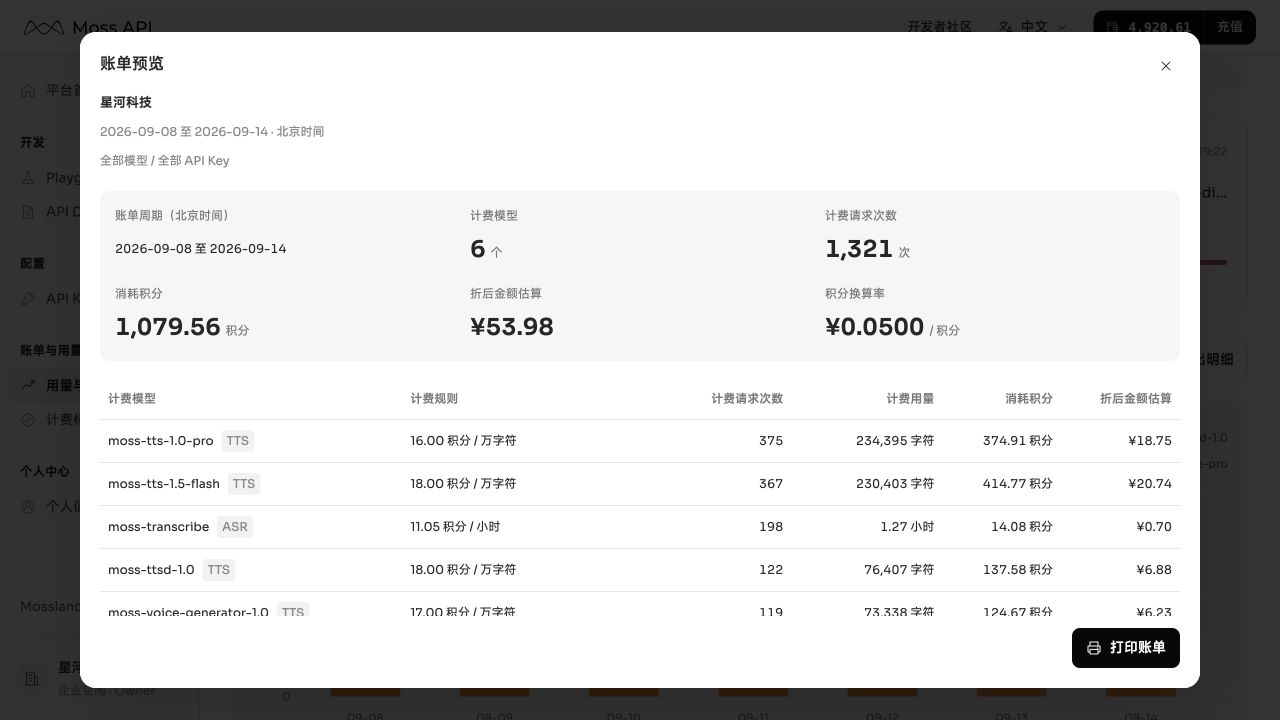
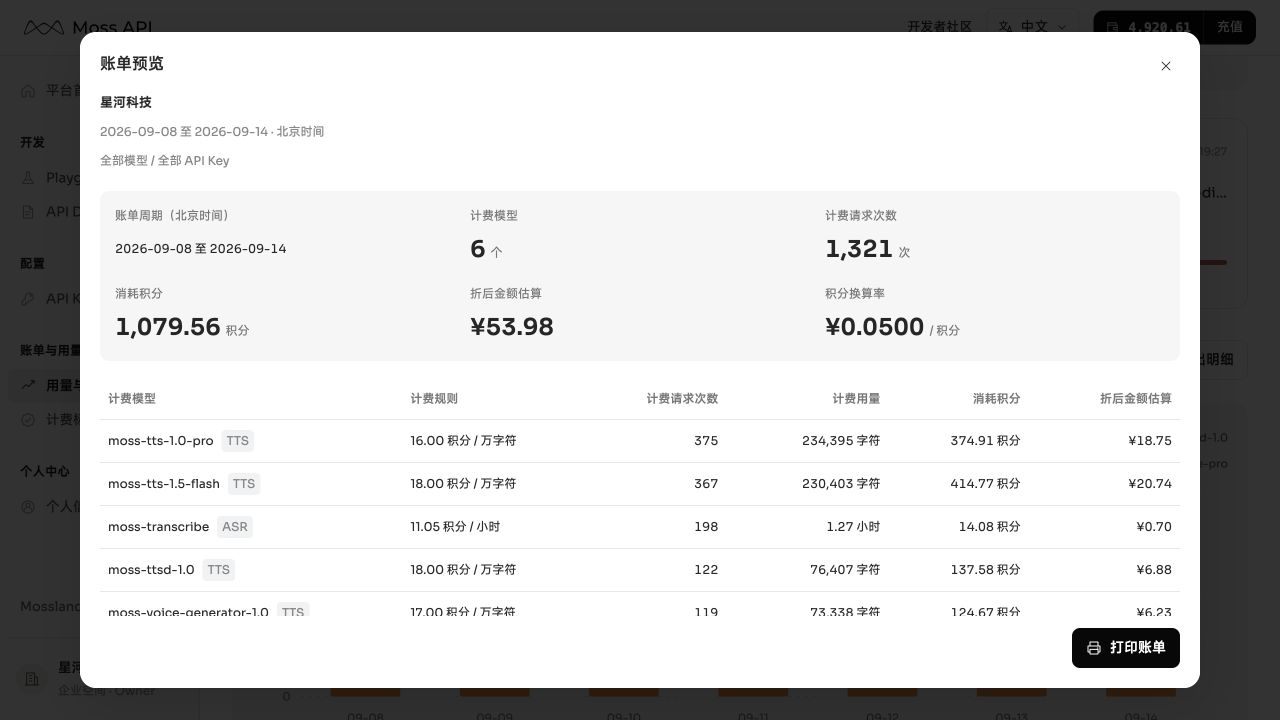
fix: unify pricing rules and simplify request billing details

Changed region(s): [[0.625, 0.5194, 0.8125, 0.7944], [0.625, 0.825, 0.8125, 0.8556], [0.5, 0.5194, 0.625, 0.5806]]

diff --git a/app/platform/usage.tsx b/app/platform/usage.tsx
@@ -2,7 +2,7 @@
 import { useEffect, useMemo, useState } from 'react';
 import { Context, DAY, Filters, KeyRecord, RequestRecord, aggregate, concurrencyPeak, contextModels, csv, dateKey, filterRequests, makeConcurrencySamples, models, points, rangeFor, timeLabel } from './data';
 import { Dialog, Empty, Help, Icon, Notice, Pagination, Select } from './ui';
-import { discountLabel, ratePoints, estimateYuan } from './pricing-data';
+import { ratePoints, estimateYuan } from './pricing-data';
 import { RekaTabs, RekaDateRangePicker } from './reka';
 import BillPreview from './bill-preview';
 import ExportHeading from './export-heading';
@@ -57,7 +57,7 @@ export default function Usage({ context, keys, requests, initialKey, balance, ge
     </section> : null}
     <RekaTabs value={tab} onValueChange={value => setTab(value as 'overview' | 'requests')} items={[{ value: 'overview', label: '用量概览' }, { value: 'requests', label: '请求明细' }]} toolbar={<div className="p-export-actions"><button className="p-button" disabled={!rows.length || invalidRange} onClick={() => setExporting('bill')}><Icon name="download" />导出账单</button><button className="p-button" disabled={!rows.length || invalidRange} onClick={() => setExporting('keys')}><Icon name="download" />导出明细</button></div>}>{tab === 'overview' ? <><section className="p-panel p-trend"><h2>积分使用趋势</h2><p className="p-muted">{rangeLabel}，按模型消耗汇总</p>{monthPending ? <Empty>本月暂无已同步数据</Empty> : <Trend key={`${dates.from}:${dates.to}:${model}:${keyId}`} rows={rows} from={dates.from} to={dates.to} settledBefore={settledBefore} />}</section><section className="p-model-usage"><h2>模型用量概览 <Help text="请求次数仅统计实际扣除积分的请求，消耗积分已包含模型折扣。" /></h2><div className="p-table-scroll"><table><thead><tr><th>模型</th><th className="p-number">计费请求次数（次）</th><th className="p-number">计费用量</th><th className="p-number">消耗积分</th><th className="p-number">折后金额估算</th><th className="p-number">操作</th></tr></thead><tbody>{summary.map(r => <tr key={r.model}><td><strong className="p-model-title">{r.model}</strong><small className="p-muted">{models.find(m => m.id === r.model)?.kind} · /api/v2/tasks</small></td><td className="p-number">{r.billedCount.toLocaleString()}</td><td className="p-number">{usageUnits(r.model, r.units)}</td><td className="p-number">{points(r.cents)} 积分</td><td className="p-number">{estimateAmount(r.cents)}</td><td className="p-number"><button className="p-text-button" onClick={() => { setModel(r.model); setTab('requests'); setPage(1); }}>查看明细</button></td></tr>)}</tbody>{summary.length ? <tfoot><tr><th>合计</th><td className="p-number">{summary.reduce((n, r) => n + r.billedCount, 0).toLocaleString()}</td><td className="p-number">{['TTS', 'ASR'].map(kind => { const group = summary.filter(r => models.find(m => m.id === r.model)?.kind === kind); return group.length ? <div key={kind}>{usageUnits(group[0].model, group.reduce((n, r) => n + r.units, 0))}</div> : null; })}</td><td className="p-number">{points(sum)} 积分</td><td className="p-number">{estimateAmount(sum)}</td><td /></tr></tfoot> : null}</table>{!rows.length ? <Empty>{monthPending ? '本月暂无已同步数据' : '所选范围内暂无已同步的用量数据。'}</Empty> : null}</div></section></> : <section className="p-request-table"><div className="p-table-scroll"><table><thead><tr><th>时间</th><th>请求 ID</th><th>API Key</th><th>接口</th><th>模型 ID</th><th>状态</th><th className="p-number">积分</th></tr></thead><tbody>{rows.slice((currentPage - 1) * pageSize, currentPage * pageSize).map(r => <tr key={r.id}><td className="p-nowrap">{timeLabel(r.start)}</td><td><button className="p-request-id" onClick={() => setRequest(r)}>{r.id}</button></td><td>{keys.find(k => k.id === r.keyId)?.name ?? r.keyId}</td><td><code>/api/v2/tasks</code></td><td className="p-nowrap"><code>{r.model}</code></td><td><span className={`p-request-status ${r.status === '成功' ? 'is-success' : 'is-failed'}`}>{r.status}</span></td><td className="p-number">{points(r.cents)}</td></tr>)}</tbody></table>{!rows.length ? <Empty>{monthPending ? '本月暂无已同步数据' : '所选范围内暂无请求明细。您可以调整筛选条件，或等待次日同步。'}</Empty> : null}</div><Pagination count={rows.length} page={currentPage} pageSize={pageSize} setPage={setPage} setPageSize={setPageSize} /></section>}</RekaTabs>
     {exporting === 'bill' ? <BillPreview rows={rows} filters={filters} context={context} keys={keys} close={() => setExporting(null)} /> : exporting ? <ExportDialog kind={exporting} setKind={setExporting} rows={rows} filters={filters} context={context} keys={keys} close={() => setExporting(null)} /> : null}
-    {request ? <Dialog title="请求详情" close={() => setRequest(null)}><div className="p-dialog-body"><dl className="p-request-detail">{[['请求 ID', request.id], ['时间', timeLabel(request.start)], ['API Key', keys.find(k => k.id === request.keyId)?.name ?? request.keyId], ['Key 标识', request.keyId], ['模型', request.model], ['接口', '/api/v2/tasks'], ['状态', request.status], ['计费用量', `${request.units} ${models.find(m => m.id === request.model)?.unit}`], ['消耗积分', points(request.cents)], ...(request.rate ? [['结算单价', `${ratePoints(request.rate)} 积分 / ${request.rate.basisLabel}`], ['模型折扣', discountLabel(request.rate.discountBps)]] : [])].map(([label, value]) => <div key={label}><dt>{label}</dt><dd>{value}</dd></div>)}</dl></div><footer><button className="p-button p-primary" onClick={() => setRequest(null)}>关闭</button></footer></Dialog> : null}
+    {request ? <Dialog title="请求详情" close={() => setRequest(null)}><div className="p-dialog-body"><dl className="p-request-detail">{[['请求 ID', request.id], ['时间', timeLabel(request.start)], ['API Key', keys.find(k => k.id === request.keyId)?.name ?? request.keyId], ['Key 标识', request.keyId], ['模型', request.model], ['接口', '/api/v2/tasks'], ['状态', request.status], ['计费用量', `${request.units} ${models.find(m => m.id === request.model)?.unit}`], ['消耗积分', points(request.cents)], ...(request.rate ? [['结算单价', `${ratePoints(request.rate)} 积分 / ${request.rate.basisLabel}`]] : [])].map(([label, value]) => <div key={label}><dt>{label}</dt><dd>{value}</dd></div>)}</dl></div><footer><button className="p-button p-primary" onClick={() => setRequest(null)}>关闭</button></footer></Dialog> : null}
   </main>;
 }
 function Trend({ rows, from, to, settledBefore }: { rows: RequestRecord[]; from: string; to: string; settledBefore: number }) {

diff --git a/app/platform/pricing.tsx b/app/platform/pricing.tsx
@@ -1,10 +1,10 @@
 'use client';
 import { Context, contextModels, points } from './data';
-import { discountLabel, rateFor, ratePoints } from './pricing-data';
+import { rateFor, ratePoints } from './pricing-data';
 import { packages } from './credits';
 import Image from 'next/image';
 export default function Pricing({ context, getCredits, contact }: { contact: () => void; context: Context; getCredits: (credits: number) => void }) {
   const available = contextModels(context);
   const groups = [{ title: '语音生成', ids: available.filter(m => m.kind === 'TTS').map(m => m.id) }, { title: '语音转写', ids: available.filter(m => m.kind === 'ASR').map(m => m.id) }];
-  return <main id="main-content" className="p-main p-pricing"><header className="p-pricing-heading"><div><h1>积分包</h1><p>选择适合的积分包，积分可用于所有 API 调用。</p></div><span>积分自购买日起一年内有效</span></header><section className="p-pricing-packs" aria-label="积分包列表">{packages.map(pack => <article key={pack.credits}>{pack.discount ? <span className="p-pack-corner">{pack.discount}</span> : null}<h2 className="p-pack-credits"><Image src="/platform/point.svg" width={20} height={20} alt="" />{pack.credits} 积分</h2><div className="p-pack-price-box"><div className="p-pack-price-line"><strong>¥ {pack.price}</strong>{pack.list ? <del>¥ {pack.list}</del> : null}</div></div><button className="p-button p-primary p-pack-buy" onClick={() => getCredits(pack.credits)}>购买</button></article>)}</section><section className="p-pricing-business"><div><h3>商务定制</h3><p>针对企业方案定制配额用量、提供专属服务、SLA 与技术支持</p></div><button className="p-text-button" onClick={contact}>联系我们</button></section><section className="p-pricing-rates"><header><h2>模型计费标准</h2><span>{context === 'enterprise' ? '星河科技 · 企业专属折扣，仅在消耗积分时生效' : '个人空间 · 平台标准价'}</span></header>{groups.map(group => <section className="p-rate-group" key={group.title}><header><h3>{group.title}</h3></header><div className="p-table-scroll"><table className={context === 'enterprise' ? 'p-rate-enterprise' : 'p-rate-personal'}><colgroup>{(context === 'enterprise' ? [27, 16, 17, 10, 17, 13] : [32, 23, 25, 20]).map((width, index) => <col key={index} style={{ width: `${width}%` }} />)}</colgroup><thead><tr><th>模型</th><th>计费方式</th><th className="p-number">标准价</th>{context === 'enterprise' ? <><th className="p-number">企业折扣</th><th className="p-number">企业价</th></> : null}<th className="p-number">最低扣费</th></tr></thead><tbody>{available.filter(m => group.ids.includes(m.id)).map(m => { const rate = rateFor(context, m.id); return <tr key={m.id}><td>{m.id}</td><td>{m.kind === 'TTS' ? '按输入字符' : '按输入音视频时长'}</td><td className="p-number">{points(rate.standardCents)} 积分 / {rate.basisLabel}</td>{context === 'enterprise' ? <><td className="p-number"><span className="p-discount">{discountLabel(rate.discountBps)}</span></td><td className="p-number"><strong>{ratePoints(rate).toFixed(2)}</strong> 积分 / {rate.basisLabel}</td></> : null}<td className="p-number">{points(rate.minimumCents)} 积分 / 次</td></tr>; })}</tbody></table></div></section>)}</section><section className="p-pricing-rules"><h2>购买与结算规则</h2><ul>{context === 'enterprise' ? <li>企业调用按对应模型的企业价格扣除积分。</li> : null}<li>按请求实际用量计算积分，折后消耗低于最低扣费时，按最低积分扣除。</li><li>账单保留调用时的计费标准，后续调整不影响历史记录。</li></ul></section></main>;
+  return <main id="main-content" className="p-main p-pricing"><header className="p-pricing-heading"><div><h1>积分包</h1><p>选择适合的积分包，积分可用于所有 API 调用。</p></div><span>积分自购买日起一年内有效</span></header><section className="p-pricing-packs" aria-label="积分包列表">{packages.map(pack => <article key={pack.credits}>{pack.discount ? <span className="p-pack-corner">{pack.discount}</span> : null}<h2 className="p-pack-credits"><Image src="/platform/point.svg" width={20} height={20} alt="" />{pack.credits} 积分</h2><div className="p-pack-price-box"><div className="p-pack-price-line"><strong>¥ {pack.price}</strong>{pack.list ? <del>¥ {pack.list}</del> : null}</div></div><button className="p-button p-primary p-pack-buy" onClick={() => getCredits(pack.credits)}>购买</button></article>)}</section><section className="p-pricing-business"><div><h3>商务定制</h3><p>针对企业方案定制配额用量、提供专属服务、SLA 与技术支持</p></div><button className="p-text-button" onClick={contact}>联系我们</button></section><section className="p-pricing-rates"><header><h2>模型计费标准</h2><span>{context === 'enterprise' ? '星河科技 · 企业专属折扣，仅在消耗积分时生效' : '个人空间 · 平台标准价'}</span></header>{groups.map(group => <section className="p-rate-group" key={group.title}><header><h3>{group.title}</h3></header><div className="p-table-scroll"><table className={context === 'enterprise' ? 'p-rate-enterprise' : 'p-rate-personal'}><colgroup>{[32, 23, 25, 20].map((width, index) => <col key={index} style={{ width: `${width}%` }} />)}</colgroup><thead><tr><th>模型</th><th>计费方式</th><th className="p-number">计费规则</th><th className="p-number">最低扣费</th></tr></thead><tbody>{available.filter(m => group.ids.includes(m.id)).map(m => { const rate = rateFor(context, m.id); return <tr key={m.id}><td>{m.id}</td><td>{m.kind === 'TTS' ? '按输入字符' : '按输入音视频时长'}</td><td className="p-number">{ratePoints(rate).toFixed(2)} 积分 / {rate.basisLabel}</td><td className="p-number">{points(rate.minimumCents)} 积分 / 次</td></tr>; })}</tbody></table></div></section>)}</section><section className="p-pricing-rules"><h2>购买与结算规则</h2><ul>{context === 'enterprise' ? <li>企业调用按对应模型的企业价格扣除积分。</li> : null}<li>按请求实际用量计算积分，折后消耗低于最低扣费时，按最低积分扣除。</li><li>账单保留调用时的计费标准，后续调整不影响历史记录。</li></ul></section></main>;
 }

diff --git a/app/platform/profile.tsx b/app/platform/profile.tsx
@@ -1,6 +1,6 @@
 'use client';
 import { Icon } from './ui';
 export default function Profile({ notify }: { notify: (message: string) => void }) {
-  const copy = async () => { try { await navigator.clipboard.writeText('moss-user-linxiao'); notify('已复制'); } catch { notify('复制失败，请手动复制。'); } };
-  return <main id="main-content" className="p-main p-profile"><div className="p-profile-content"><h1>个人信息</h1><section className="p-profile-section"><h2>基本信息</h2><div className="p-profile-basic"><div><span>头像</span><span className="p-avatar p-profile-avatar">林</span></div><div><span>昵称</span><span>林晓</span></div><div><span>用户 ID</span><span>moss-user-linxiao <button className="p-icon-button" aria-label="复制用户 ID" onClick={copy}><Icon name="copy" /></button></span></div><div><span>手机号</span><span>—</span></div><div><span>邮箱</span><span>—</span></div></div></section><section className="p-profile-section p-profile-certification"><header><h2>企业认证</h2><span className="p-muted">未认证</span></header><div className="p-profile-cert-card"><span className="p-avatar p-avatar-enterprise"><Icon name="person" size={24} /></span><div><strong>完成企业认证，开通企业采购能力</strong><span>认证后可选择企业对公转账方式购买积分。</span></div><a className="p-button p-primary" href="https://platform.mosi.cn/app/profile" target="_blank" rel="noreferrer">去认证</a></div></section></div></main>;
+  const copy = async () => { try { await navigator.clipboard.writeText('2090649342695182666'); notify('已复制'); } catch { notify('复制失败，请手动复制。'); } };
+  return <main id="main-content" className="p-main p-profile"><div className="p-profile-content"><h1>个人信息</h1><section className="p-profile-section"><h2>基本信息</h2><div className="p-profile-basic"><div><span>头像</span><span className="p-avatar p-profile-avatar">林</span></div><div><span>昵称</span><span>林晓</span></div><div><span>用户 ID</span><span>2090649342695182666 <button className="p-icon-button" aria-label="复制用户 ID" onClick={copy}><Icon name="copy" /></button></span></div><div><span>手机号</span><span>—</span></div><div><span>邮箱</span><span>—</span></div></div></section><section className="p-profile-section p-profile-certification"><header><h2>企业认证</h2><span className="p-muted">未认证</span></header><div className="p-profile-cert-card"><span className="p-avatar p-avatar-enterprise"><Icon name="person" size={24} /></span><div><strong>完成企业认证，开通企业采购能力</strong><span>认证后可选择企业对公转账方式购买积分。</span></div><a className="p-button p-primary" href="https://platform.mosi.cn/app/profile" target="_blank" rel="noreferrer">去认证</a></div></section></div></main>;
 }

diff --git a/app/platform/platform.css b/app/platform/platform.css
@@ -322,7 +322,7 @@
 .p-bill-table thead{background:#fff}
 .p-bill-table th{font-weight:500;color:#777;white-space:nowrap}
 .p-bill-table td.p-number{white-space:nowrap}
-.p-bill-table thead th:nth-child(1){width:28%}.p-bill-table thead th:nth-child(2){width:24%}.p-bill-table thead th:nth-child(3){width:12%}.p-bill-table thead th:nth-child(4){width:14%}.p-bill-table thead th:nth-child(5){width:11%}.p-bill-table thead th:nth-child(6){width:11%}
+.p-bill-table thead th:nth-child(1){width:28%}.p-bill-table thead th:nth-child(2){width:16%}.p-bill-table thead th:nth-child(3){width:14%}.p-bill-table thead th:nth-child(4){width:15%}.p-bill-table thead th:nth-child(5){width:13%}.p-bill-table thead th:nth-child(6){width:14%}
 .p-bill-model{white-space:nowrap}.p-bill-kind{display:inline-block;margin-left:8px;padding:1px 5px;border-radius:4px;background:#f1f2f4;color:#888;font-size:12px;line-height:20px}
 .p-bill-rate{display:flex;align-items:center;gap:6px;flex-wrap:nowrap;white-space:nowrap}.p-bill-rate+.p-bill-rate{margin-top:8px}
 .p-bill-rate>span{white-space:nowrap}.p-bill-rate del{color:#999;font-size:11px}.p-bill-rate .p-discount{font-size:11px;line-height:18px;padding:1px 5px}.p-bill-rate small{flex-basis:100%;color:#777;font-size:12px;line-height:20px}
@@ -354,12 +354,12 @@
 
 .p-dialog.p-usage-export-dialog{width:1120px;max-width:calc(100vw - 48px)}
 .p-usage-export-dialog .p-export-preview table{min-width:1000px;table-layout:fixed}
-.p-usage-export-dialog .p-export-preview th:nth-child(1){width:30%}
-.p-usage-export-dialog .p-export-preview th:nth-child(2){width:20%}
-.p-usage-export-dialog .p-export-preview th:nth-child(3){width:12%}
-.p-usage-export-dialog .p-export-preview th:nth-child(4){width:14%}
-.p-usage-export-dialog .p-export-preview th:nth-child(5){width:11%}
-.p-usage-export-dialog .p-export-preview th:nth-child(6){width:13%}
+.p-usage-export-dialog .p-export-preview th:nth-child(1){width:28%}
+.p-usage-export-dialog .p-export-preview th:nth-child(2){width:17%}
+.p-usage-export-dialog .p-export-preview th:nth-child(3){width:14%}
+.p-usage-export-dialog .p-export-preview th:nth-child(4){width:15%}
+.p-usage-export-dialog .p-export-preview th:nth-child(5){width:12%}
+.p-usage-export-dialog .p-export-preview th:nth-child(6){width:14%}
 .p-usage-export-dialog .p-export-preview th,.p-usage-export-dialog .p-export-preview .p-number{white-space:nowrap}
 .p-usage-export-dialog .p-export-preview td{vertical-align:middle}
 .p-usage-export-dialog .p-export-preview td:nth-child(2){overflow-wrap:anywhere}

diff --git a/app/platform/export-data.ts b/app/platform/export-data.ts
@@ -1,14 +1,14 @@
 import { aggregate, models, timeLabel, type Filters, type KeyRecord, type RequestRecord } from './data.ts';
-import { discountLabel, estimateYuan, ratePoints } from './pricing-data.ts';
+import { estimateYuan, ratePoints } from './pricing-data.ts';
 
 export function usageExport(kind: 'keys' | 'requests', rows: RequestRecord[], keys: KeyRecord[], account: string, filters: Filters) {
   const commonHeaders = ['账户', '开始日期', '结束日期'];
   const base = [account, filters.from, filters.to];
   if (kind === 'requests') {
-    const headers = [...commonHeaders, '请求时间（北京时间）', '请求 ID', '计费模型', 'Key ID', 'API Key', '密钥掩码', '备注', '接口', '状态', '计费用量', '单位', '消耗积分', '结算单价', '单价单位', '模型折扣', '折后金额估算（元）'];
+    const headers = [...commonHeaders, '请求时间（北京时间）', '请求 ID', '计费模型', 'Key ID', 'API Key', '密钥掩码', '备注', '接口', '状态', '计费用量', '单位', '消耗积分', '结算单价', '单价单位', '折后金额估算（元）'];
     const data = rows.map(r => {
       const key = keys.find(key => key.id === r.keyId);
-      return [...base, timeLabel(r.start), r.id, r.model, r.keyId, key?.name ?? '', key?.masked ?? '', key?.note ?? '', '/api/v2/tasks', r.status, r.units, models.find(model => model.id === r.model)?.unit ?? '', (r.cents / 100).toFixed(2), r.rate ? ratePoints(r.rate) : '', r.rate?.basisLabel ?? '', r.rate ? discountLabel(r.rate.discountBps) : '', estimateYuan(r.cents).toFixed(4)];
+      return [...base, timeLabel(r.start), r.id, r.model, r.keyId, key?.name ?? '', key?.masked ?? '', key?.note ?? '', '/api/v2/tasks', r.status, r.units, models.find(model => model.id === r.model)?.unit ?? '', (r.cents / 100).toFixed(2), r.rate ? ratePoints(r.rate) : '', r.rate?.basisLabel ?? '', estimateYuan(r.cents).toFixed(4)];
     });
     return { headers, data };
   }

diff --git a/app/platform/bill-preview.tsx b/app/platform/bill-preview.tsx
@@ -13,7 +13,7 @@ export default function BillPreview({ rows, filters, context, keys, close }: { r
   const summary = aggregate(rows);
   const total = summary.reduce((sum, row) => sum + row.cents, 0);
   const billedCount = summary.reduce((sum, row) => sum + row.billedCount, 0);
-  const account = context === 'enterprise' ? '星河科技' : '林晓 · moss-user-linxiao';
+  const account = context === 'enterprise' ? '星河科技' : '林晓 · 2090649342695182666';
   const period = `${filters.from} 至 ${filters.to}`;
   const title = '账单预览';
   const scope = `${filters.model === 'all' ? '全部模型' : filters.model} / ${filters.key === 'all' ? '全部 API Key' : keys.find(key => key.id === filters.key)?.name ?? filters.key}`;
